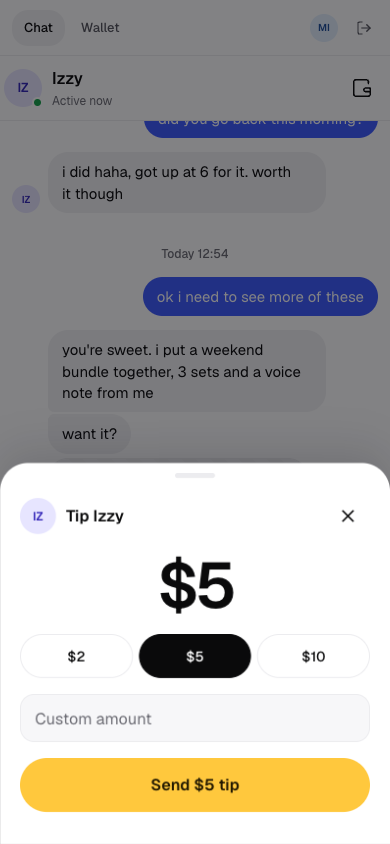
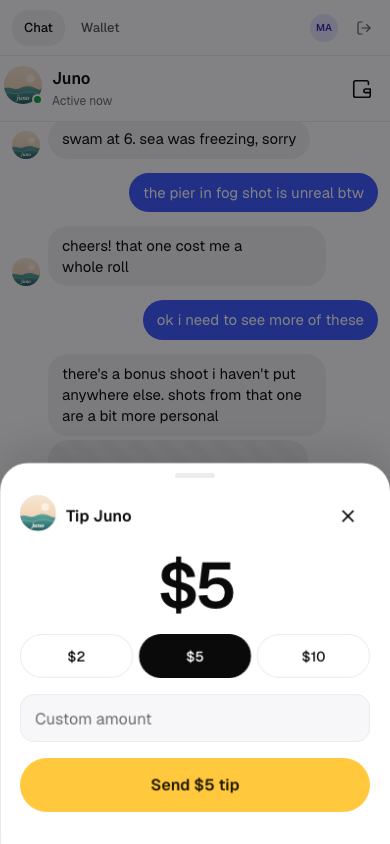
Retake the app screenshots with Juno
The 23 captures in docs/app/screens/ still showed the old creator and brand. They are
retaken against the current app at 1440x900 and 390x844, with five fans whose
conversations ran through the live engine: an offer card, a custom request held for
Juno, a minor stop in the Trust & Safety queue, a takeover with an unlock, and a tip.

The captions now describe these shots: the held custom request carries no suggested
reply (its draft was a refusal, which failed verify), and a minor stop offers Take
over and Ban only, since a chat locked for a minor is never released to the AI.

diff --git a/docs/app/APP.md b/docs/app/APP.md
@@ -66,8 +66,8 @@ because the platform cannot legally deny it.
 | | |
 |---|---|
 | Fan chat, desktop: the top navigation bar, the thread list, Juno's header, a locked offer card, the pill composer with Tip, and the fan's account menu. | ![Fan chat at 1440 px](screens/chat-1440.png) |
-| Juno's console on a custom request held for her: inbox badges (Handoff, AI, You), the suggested reply to edit and send, and the staff bar (AI for this chat, Take over, Hand back to AI). | ![Console thread at 1440 px](screens/console-thread-1440.png) |
-| The Trust & Safety queue on a minor hard stop ("i'm 16 btw"): Take over, Release to AI, Ban. | ![Admin at 1440 px](screens/admin-1440.png) |
+| Juno's console on a custom request held for her: inbox badges (Handoff, AI, You), the request in the thread, the auto-resolve countdown, and the staff bar (AI for this chat, Take over, Hand back to AI). | ![Console thread at 1440 px](screens/console-thread-1440.png) |
+| The Trust & Safety queue on a minor hard stop ("i'm 16 btw"): the notice the fan sees, then Take over and Ban (a minor stop is never released to the AI). | ![Admin at 1440 px](screens/admin-1440.png) |
 
 These screenshots were retaken on 4 November against the current app, with demo data in a scratch database. The phone
 layouts, the tip sheet, the dark theme, the account menu, the analytics pages and `/admin/sim` are in
@@ -1585,7 +1585,7 @@ one stands now. Remaining gaps are in [§22](#22-known-gaps-risks-and-open-findi
 | [ANALYTICS.md](../quality/ANALYTICS.md) | Dashboard | Current |
 | [DESIGN.md](DESIGN.md), [DEVELOPMENT.md](../operations/DEVELOPMENT.md), [PERSONA.md](../persona/PERSONA.md), [README.md](../README.md) | Design system, workflow, index | Not re-audited line by line here |
 
-**Screenshots** in [`docs/app/screens/`](screens/) were retaken on 4 November against the current app.
+**Screenshots** in [`docs/app/screens/`](screens/) were retaken on 10 November against the current app, with Juno and fans driven through the live engine.
 
 ---
 

diff --git a/docs/quality/FAN-SIM.md b/docs/quality/FAN-SIM.md
@@ -924,7 +924,7 @@ optional seed, include minor), Normal mix, Every persona, a runs table (status, 
 to `/admin/[id]`, `/console/[id]`, `/analytics/turns`), Stop, Stop all, Clear sim data, and **Open as fan**. Open as fan
 asks Auth.js for a sign-in link for that run's fan (`captureSignInLink` in `examples/app/lib/auth/demo-seats.ts`, the same capture the
 demo seats use, so nothing is emailed) and shows it; open it in a second browser profile to watch the fan's chat while the
-run plays. The link is Auth.js's one-time token: a second use is rejected. No screenshot exists yet; when the page is signed off, captures at 1440 and 390 go in `docs/app/screens/admin-sim-*.png`.
+run plays. The link is Auth.js's one-time token: a second use is rejected. Captures at 1440 and 390 are `docs/app/screens/admin-sim-*.png`.
 
 **Demo vs auto.** Demo mode waits `sim.demo_gap_ms` (scaled by the run's jitter) before each fan message so typing and
 bubbles are watchable, and at a human step (`takeover`, `hand_back`, `release`, `ban`, the AI switches) it sets the run
